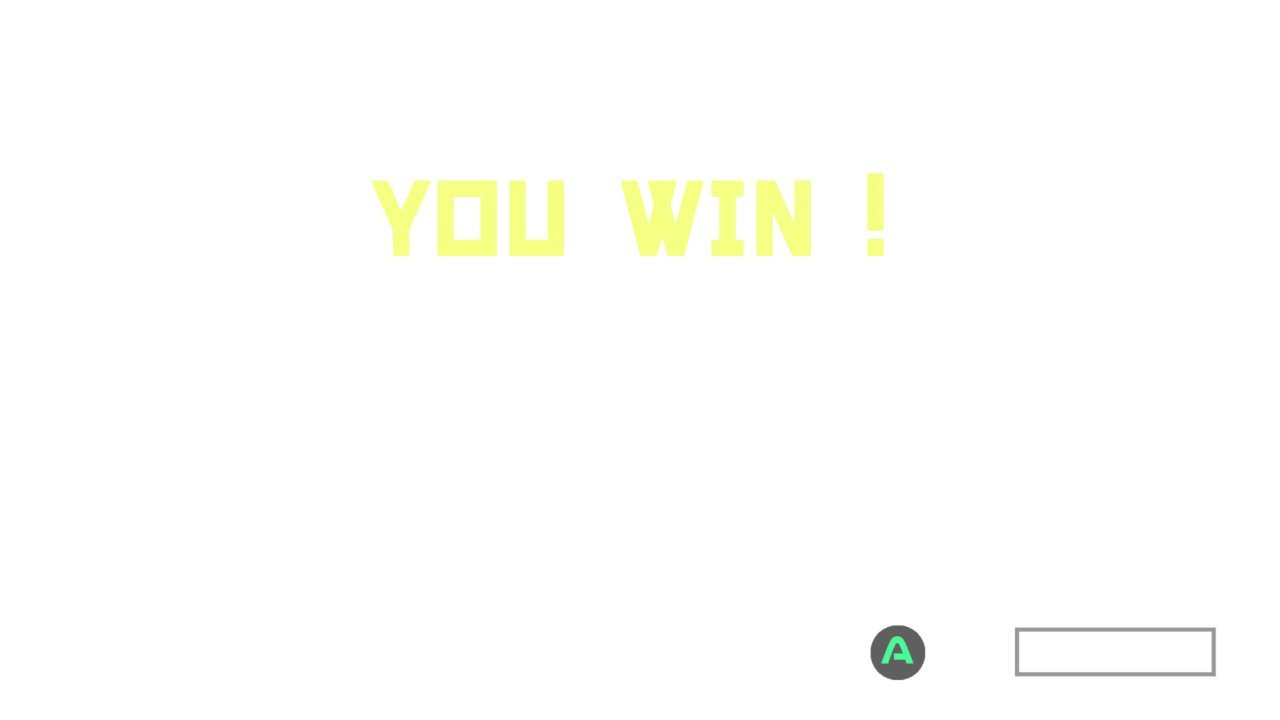
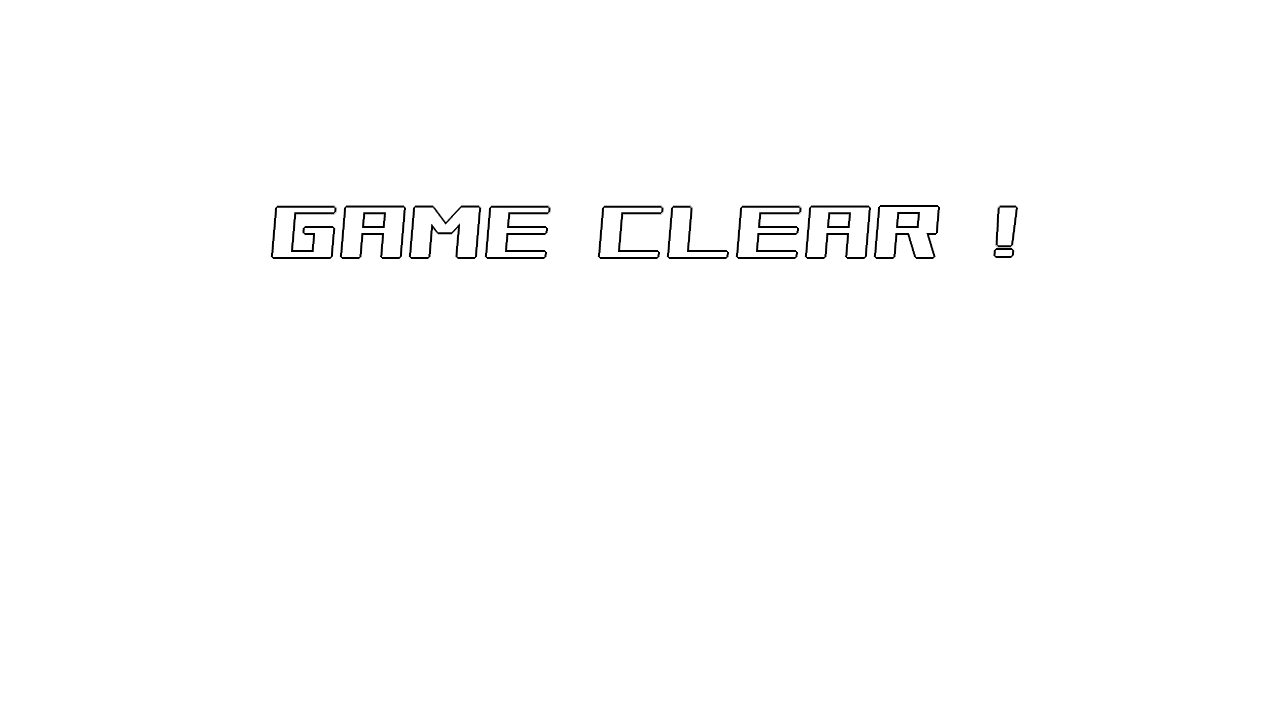
UI追加

diff --git a/scene/GameScene.cpp b/scene/GameScene.cpp
@@ -219,15 +219,7 @@ void GameScene::Draw() {
 	/// Spriteの描画準備
 	spCommon_->DrawCommonSetting();
 	//-----Spriteの描画開始-----
-	// 操作説明の描画
-	howToPlay_->Draw();
-	//ロックオンマーク
-	lockOn_->Draw();
-	// HPバーの描画
-	hpBar_->Draw();
-
-	enemyHpBar_->Draw();
-
+	
 	//------------------------
 
 	objCommon_->skinningDrawCommonSetting();
@@ -274,6 +266,14 @@ void GameScene::Draw() {
 
 	/// Spriteの描画準備
 	spCommon_->DrawCommonSetting();
+	// 操作説明の描画
+	howToPlay_->Draw();
+	//ロックオンマーク
+	lockOn_->Draw();
+	// HPバーの描画
+	hpBar_->Draw();
+
+	enemyHpBar_->Draw();
 
 	pause_->Draw();
 

diff --git a/scene/GameOverScene.cpp b/scene/GameOverScene.cpp
@@ -51,6 +51,9 @@ void GameOverScene::Initialize()
 	UI_ = std::make_unique<Sprite>();
 	UI_->Initialize("UiA.png", { 640.0f, 600.0f }, { 1,1,1,1 }, { 0.5f,0.5f });
 
+	gameOver_ = std::make_unique<Sprite>();
+	gameOver_->Initialize("gameOverUI.png", { 640.0f, 300.0f }, { 1,1,1,1 }, { 0.5f,0.5f });
+
 	//タイム
 	timeManager_ = std::make_unique<TimeManager>();
 	timeManager_->Initialize();
@@ -168,6 +171,7 @@ void GameOverScene::Draw()
 	spCommon_->DrawCommonSetting();
 	//-----Spriteの描画開始-----
 	UI_->Draw();
+	gameOver_->Draw();
 	//---------------
 
 	//-----線描画-----

diff --git a/scene/ClearScene.cpp b/scene/ClearScene.cpp
@@ -50,6 +50,9 @@ void ClearScene::Initialize() {
 	UI_ = std::make_unique<Sprite>();
 	UI_->Initialize("UiA.png", { 640.0f, 600.0f }, { 1,1,1,1 }, { 0.5f,0.5f });
 
+	clear_ = std::make_unique<Sprite>();
+	clear_->Initialize("gameClearUI.png", { 640.0f, 300.0f }, { 1,1,1,1 }, { 0.5f,0.5f });
+
 	//タイム
 	timeManager_ = std::make_unique<TimeManager>();
 	timeManager_->Initialize();
@@ -174,6 +177,7 @@ void ClearScene::Draw() {
 	spCommon_->DrawCommonSetting();
 	//-----Spriteの描画開始-----
 	UI_->Draw();
+	clear_->Draw();
 	//---------------
 
 	//-----線描画-----

diff --git a/scene/GameOverScene.h b/scene/GameOverScene.h
@@ -77,6 +77,7 @@ private:
 	std::vector<std::unique_ptr<Enemy>> enemies_;
 
 	std::unique_ptr<Sprite> UI_;
+	std::unique_ptr<Sprite> gameOver_;
 	float timer_ = 0.0f;
 	float speed_ = 0.02f;
 

diff --git a/scene/ClearScene.h b/scene/ClearScene.h
@@ -77,6 +77,7 @@ private:
 	std::vector<std::unique_ptr<Enemy>> enemies_;
 
 	std::unique_ptr<Sprite> UI_;
+	std::unique_ptr<Sprite> clear_;
 	float timer_ = 0.0f;
 	float speed_ = 0.02f;
 
